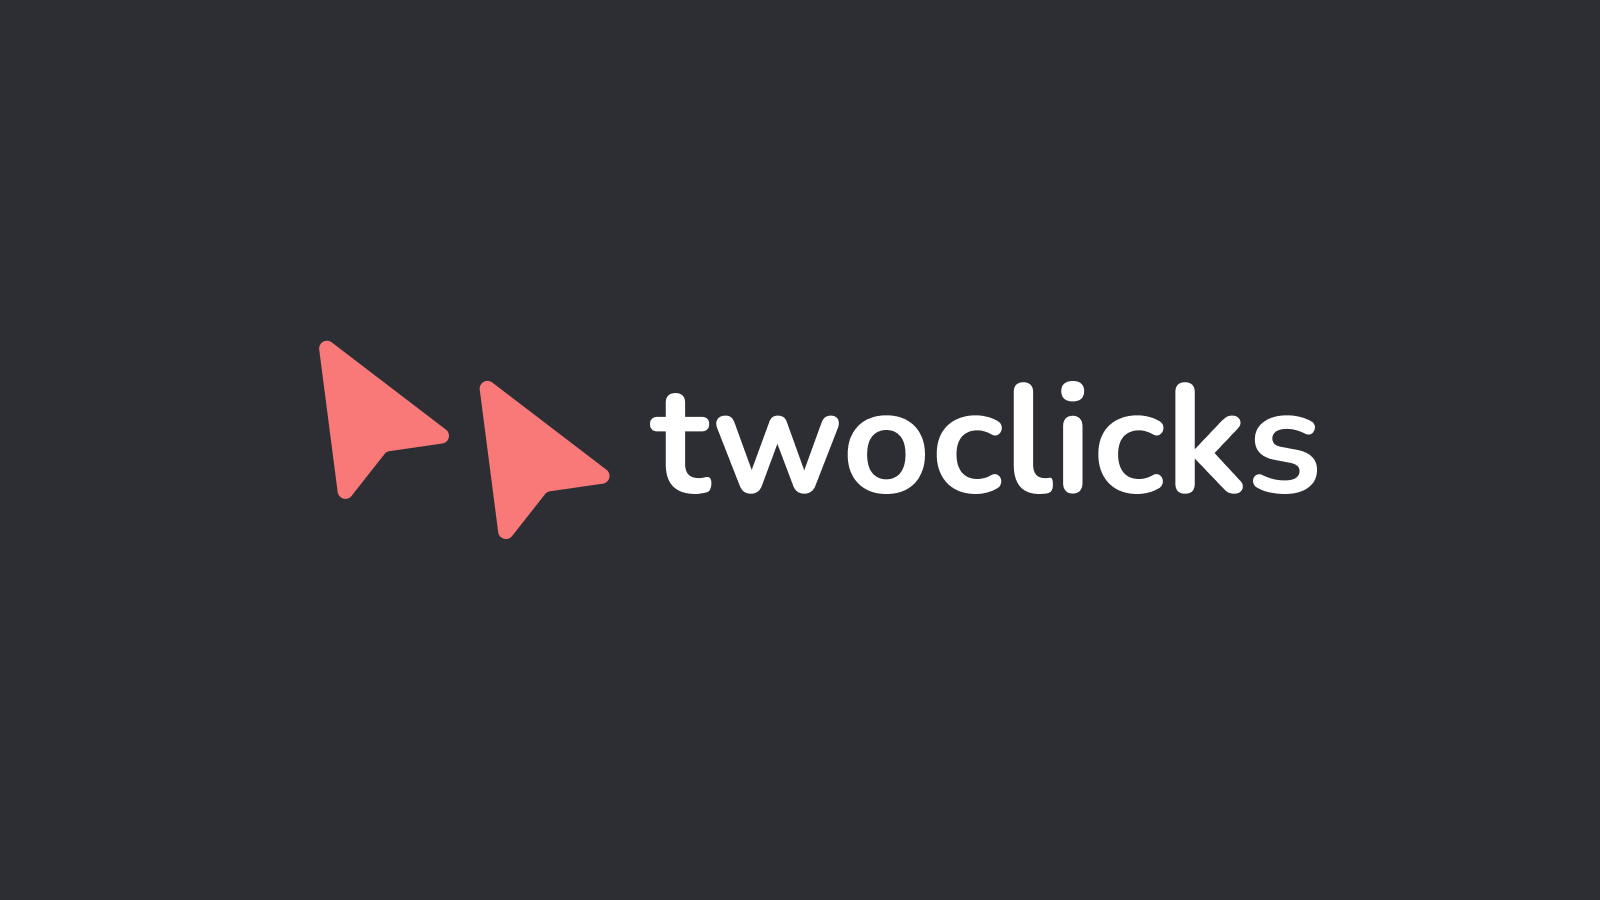
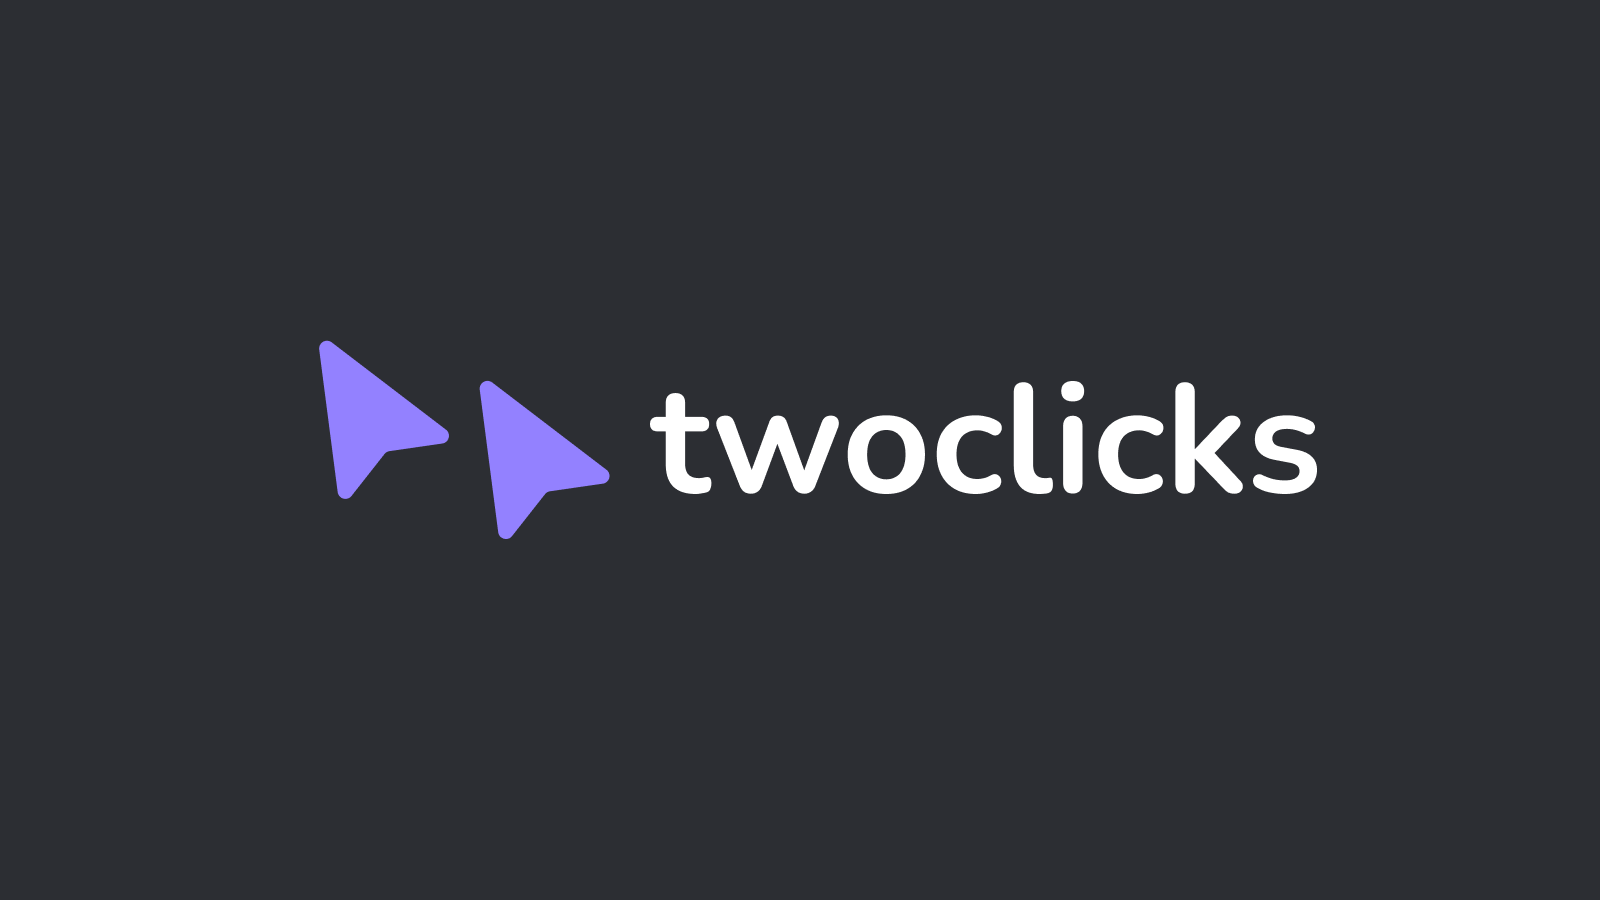
Make lilac primary color

Changed region(s): [[0.1875, 0.3733, 0.375, 0.5911]]

diff --git a/app/core/components/TextEditor.tsx b/app/core/components/TextEditor.tsx
@@ -130,7 +130,7 @@ const TextEditor: React.FC<{
               size="md"
               radius={0}
               variant={editor.isActive("bold") ? "light" : "filled"}
-              color={editor.isActive("bold") ? "flame" : dark ? "dark" : "dark.4"}
+              color={editor.isActive("bold") ? "primary" : dark ? "dark" : "dark.4"}
               onClick={() => {
                 editor.chain().focus().toggleBold().run()
               }}
@@ -150,7 +150,7 @@ const TextEditor: React.FC<{
               size="md"
               radius={0}
               variant={editor.isActive({ textAlign: "left" }) ? "light" : "filled"}
-              color={editor.isActive({ textAlign: "left" }) ? "flame" : dark ? "dark" : "dark.4"}
+              color={editor.isActive({ textAlign: "left" }) ? "primary" : dark ? "dark" : "dark.4"}
               onClick={() => {
                 editor.chain().focus().setTextAlign("left").run()
               }}
@@ -170,7 +170,9 @@ const TextEditor: React.FC<{
               size="md"
               radius={0}
               variant={editor.isActive({ textAlign: "center" }) ? "light" : "filled"}
-              color={editor.isActive({ textAlign: "center" }) ? "flame" : dark ? "dark" : "dark.4"}
+              color={
+                editor.isActive({ textAlign: "center" }) ? "primary" : dark ? "dark" : "dark.4"
+              }
               onClick={() => {
                 editor.chain().focus().setTextAlign("center").run()
               }}
@@ -190,7 +192,7 @@ const TextEditor: React.FC<{
               size="md"
               radius={0}
               variant={editor.isActive({ textAlign: "right" }) ? "light" : "filled"}
-              color={editor.isActive({ textAlign: "right" }) ? "flame" : dark ? "dark" : "dark.4"}
+              color={editor.isActive({ textAlign: "right" }) ? "primary" : dark ? "dark" : "dark.4"}
               onClick={() => {
                 editor.chain().focus().setTextAlign("right").run()
               }}
@@ -210,7 +212,9 @@ const TextEditor: React.FC<{
               size="md"
               radius={0}
               variant={editor.isActive({ textAlign: "justify" }) ? "light" : "filled"}
-              color={editor.isActive({ textAlign: "justify" }) ? "flame" : dark ? "dark" : "dark.4"}
+              color={
+                editor.isActive({ textAlign: "justify" }) ? "primary" : dark ? "dark" : "dark.4"
+              }
               onClick={() => {
                 editor.chain().focus().setTextAlign("justify").run()
               }}
@@ -231,7 +235,7 @@ const TextEditor: React.FC<{
                 size="md"
                 radius={0}
                 variant={editor.isActive("link") ? "light" : "filled"}
-                color={editor.isActive("link") ? "flame" : dark ? "dark" : "dark.4"}
+                color={editor.isActive("link") ? "primary" : dark ? "dark" : "dark.4"}
                 onClick={() => {
                   editor.chain().focus().run()
                   setEditLinkActive(true)
@@ -250,7 +254,7 @@ const TextEditor: React.FC<{
               rightSection={
                 <ActionIcon
                   size="sm"
-                  color="flame"
+                  color="primary"
                   disabled={!linkValue.length}
                   onClick={() => {
                     let url = linkValue

diff --git a/app/core/components/Logo.tsx b/app/core/components/Logo.tsx
@@ -19,13 +19,13 @@ function Logo({ ...props }: React.SVGProps<SVGSVGElement>) {
           fillRule="evenodd"
           clipRule="evenodd"
           d="M40.0524 2.80383C42.7848 1.22628 46.1977 1.44639 48.7049 3.36185L162.881 90.5931C165.381 92.5034 166.492 95.727 165.699 98.7722C164.907 101.817 162.365 104.09 159.25 104.539L106.527 112.135C104.54 112.422 102.74 113.461 101.499 115.038L68.5586 156.9C66.6127 159.373 63.3736 160.437 60.34 159.601C57.3065 158.765 55.0702 156.191 54.666 153.071L36.2094 10.5761C35.8041 7.44714 37.32 4.38138 40.0524 2.80383Z"
-          fill="#F97979"
+          fill={theme.colors.primary[5]}
         />
         <path
           fillRule="evenodd"
           clipRule="evenodd"
           d="M200.586 42.9366C203.318 41.3591 206.731 41.5792 209.238 43.4947L323.414 130.726C325.914 132.636 327.025 135.86 326.232 138.905C325.44 141.95 322.898 144.223 319.784 144.672L267.06 152.268C265.074 152.555 263.274 153.594 262.033 155.171L229.092 197.033C227.146 199.506 223.907 200.57 220.873 199.734C217.84 198.898 215.603 196.324 215.199 193.204L196.743 50.7089C196.337 47.58 197.853 44.5142 200.586 42.9366Z"
-          fill="#F97979"
+          fill={theme.colors.primary[5]}
         />
         <path
           d="M412.739 155C406.043 155 400.429 153.866 395.896 151.599C391.467 149.332 388.17 146.034 386.007 141.706C383.843 137.274 382.762 131.813 382.762 125.32V92.394H374.726C372.254 92.394 370.348 91.7756 369.009 90.539C367.67 89.1993 367 87.3958 367 85.1286C367 82.7583 367.67 80.9549 369.009 79.7182C370.348 78.4815 372.254 77.8632 374.726 77.8632H382.762V63.7962C382.762 60.6015 383.586 58.1797 385.234 56.5308C386.985 54.8819 389.406 54.0575 392.497 54.0575C395.587 54.0575 397.957 54.8819 399.605 56.5308C401.253 58.1797 402.077 60.6015 402.077 63.7962V77.8632H418.457C420.929 77.8632 422.835 78.4815 424.174 79.7182C425.514 80.9549 426.183 82.7583 426.183 85.1286C426.183 87.3958 425.514 89.1993 424.174 90.539C422.835 91.7756 420.929 92.394 418.457 92.394H402.077V124.238C402.077 129.185 403.159 132.895 405.322 135.368C407.486 137.841 410.988 139.078 415.83 139.078C417.581 139.078 419.127 138.923 420.466 138.614C421.805 138.305 422.99 138.099 424.02 137.996C425.256 137.893 426.286 138.305 427.11 139.233C427.934 140.057 428.347 141.809 428.347 144.488C428.347 146.549 427.986 148.404 427.265 150.053C426.647 151.599 425.462 152.681 423.711 153.3C422.372 153.712 420.62 154.072 418.457 154.382C416.294 154.794 414.388 155 412.739 155Z"

diff --git a/pages/_app.tsx b/pages/_app.tsx
@@ -46,20 +46,32 @@ const CustomTheme: MantineThemeOverride = {
     fontFamily: "'Nunito', sans-serif",
   },
   colors: {
-    flame: [
-      "#fee4e4",
-      "#fdc9c9",
-      "#fbafaf",
-      "#fba1a1",
-      "#fa8686",
-      "#F97979",
-      "#e06d6d",
-      "#c76161",
-      "#ae5555",
-      "#954949",
+    primary: [
+      "#e9e6ff",
+      "#dfd9ff",
+      "#c9c0ff",
+      "#beb3ff",
+      "#a99aff",
+      "#9381ff",
+      "#8474e6",
+      "#7667cc",
+      "#675ab3",
+      "#584d99",
     ],
+    // primary: [
+    //   "#fef2f2",
+    //   "#fdd7d7",
+    //   "#fcbcbc",
+    //   "#fba1a1",
+    //   "#fa8686",
+    //   "#F97979",
+    //   "#e06d6d",
+    //   "#c76161",
+    //   "#ae5555",
+    //   "#954949",
+    // ],
   },
-  primaryColor: "flame",
+  primaryColor: "primary",
   primaryShade: 5,
   globalStyles: (theme) => ({
     "*, *::before, *::after": {
@@ -69,7 +81,7 @@ const CustomTheme: MantineThemeOverride = {
       scrollBehavior: "smooth",
     },
     "::selection": {
-      background: theme.colors.flame[4],
+      background: theme.colors.primary[4],
       color: theme.white,
       WebkitTextFillColor: theme.white,
     },
@@ -96,6 +108,29 @@ const CustomTheme: MantineThemeOverride = {
     },
   }),
   components: {
+    ActionIcon: {
+      defaultProps: {
+        color: "violet",
+        radius: "sm",
+      },
+    },
+    Button: {
+      defaultProps: {
+        radius: "sm",
+      },
+    },
+    ColorSwatch: {
+      defaultProps: {
+        radius: "xl",
+      },
+    },
+    ColorPicker: {
+      styles: (theme) => ({
+        swatch: {
+          borderRadius: theme.radius.xl,
+        },
+      }),
+    },
     Paper: {
       styles: (theme) => ({
         root: {

diff --git a/app/build/PaletteItem.tsx b/app/build/PaletteItem.tsx
@@ -96,15 +96,14 @@ const PaletteItem = (props: IPaletteItem) => {
             sx={(theme) => ({
               display: "flex",
               alignItems: "center",
-              borderRadius: theme.radius.sm,
               cursor: "pointer",
               alignSelf: "stretch",
               "&:hover": withHover
                 ? {
                     backgroundColor:
                       theme.colorScheme === "dark"
-                        ? theme.fn.rgba(theme.colors.flame[9], 0.2)
-                        : theme.colors.flame[0],
+                        ? theme.fn.rgba(theme.colors.primary[9], 0.2)
+                        : theme.colors.primary[0],
                   }
                 : undefined,
               "&:active": {
@@ -113,9 +112,9 @@ const PaletteItem = (props: IPaletteItem) => {
             })}
           >
             {hasBG ? (
-              <BsFillImageFill size={16} color={theme.colors.flame[5]} />
+              <BsFillImageFill size={16} color={theme.colors.primary[5]} />
             ) : (
-              <ColorSwatch radius="xs" size={16} color={hexColor} />
+              <ColorSwatch size={16} color={hexColor} />
             )}
           </Box>
         </div>
@@ -131,7 +130,7 @@ const PaletteItem = (props: IPaletteItem) => {
               variant="subtle"
               rightIcon={
                 currentPaletteColor ? (
-                  <ColorSwatch color={currentPaletteColor} radius="xs" size={16} />
+                  <ColorSwatch color={currentPaletteColor} size={16} />
                 ) : undefined
               }
             >

diff --git a/app/home/HowToUseIt.tsx b/app/home/HowToUseIt.tsx
@@ -52,7 +52,7 @@ const HowToUseIt = (props: ContainerProps) => {
         <m.path
           style={{ pathLength: scrollYProgress }}
           d="M507.997 29.0001C517.997 24.5 530.497 11 528.997 7.00011C527.241 2.31856 515.497 7.50011 509.997 30.5001C512.83 20.6667 516.797 1 509.997 1C501.497 1 505.497 20 512.997 31C439.497 30.3333 260.798 48.8 133.998 128C-24.5022 227 5.99778 435 124.498 495.5C242.998 556 521.998 585.5 534.498 638C546.998 690.5 374.283 704.934 233.498 721C67 740 -87.5031 784.5 59.9977 859.5C128.496 892.5 243.123 922.5 260.623 948C269.497 942.5 274.243 942.254 282.496 934C289.496 927 280.496 910.5 258.996 951C264.33 940.5 273.396 918.7 264.996 919.5C254.496 920.5 260.623 943 260.623 951"
-          stroke={theme.colors.flame[5] as "string"}
+          stroke={theme.colors.primary[5] as "string"}
         />
       </Box>
       <LandingTitle
@@ -341,7 +341,7 @@ const HowToUseIt = (props: ContainerProps) => {
               component="span"
               // variant="gradient"
               size="lg"
-              // gradient={{ from: "flame", to: "red", deg: 60 }}
+              // gradient={{ from: "primary", to: "red", deg: 60 }}
               variant="filled"
               leftIcon={<IoMdSave />}
               tabIndex={-1}

diff --git a/app/core/components/modals/base/MenuModal.tsx b/app/core/components/modals/base/MenuModal.tsx
@@ -127,7 +127,7 @@ const MenuModal = () => {
           styles={{
             control: {
               textAlign: "center",
-              backgroundColor: dark ? theme.colors.dark[5] : theme.colors.flame[0],
+              backgroundColor: dark ? theme.colors.dark[5] : theme.colors.primary[0],
               paddingTop: 0,
               paddingBottom: 0,
               minHeight: "34px",
@@ -137,7 +137,7 @@ const MenuModal = () => {
               position: "absolute",
               left: "50%",
               transform: "translateX(-50%)",
-              color: dark ? theme.white : theme.colors.flame[5],
+              color: dark ? theme.white : theme.colors.primary[5],
               fontSize: "14px",
             },
           }}
@@ -155,7 +155,7 @@ const MenuModal = () => {
           <Link passHref href={menuItem.route} key={menuItem.text}>
             <Button
               title={t(menuItem.title)}
-              color={dark ? "dark" : "flame"}
+              color={dark ? "dark" : "primary"}
               fullWidth
               variant={dark ? "filled" : "light"}
             >

diff --git a/app/build/BuilderHeader.tsx b/app/build/BuilderHeader.tsx
@@ -136,20 +136,14 @@ const BuilderHeader = ({ className }: { className?: string }) => {
           </Box>
           <Group spacing={8}>
             <HistoryButtons size={30} variant="light" />
-            <ViewportButtons variant="light" color="flame" size={30} />
+            <ViewportButtons variant="light" size={30} />
             <Tooltip
               label={fullscreen ? t("turn off fullscreen mode") : t("turn on fullscreen mode")}
               withArrow
               position="bottom"
               opened={fullscreenHovered}
             >
-              <ActionIcon
-                onClick={toggle}
-                variant="light"
-                color="flame"
-                size={30}
-                ref={fullscreenRef}
-              >
+              <ActionIcon onClick={toggle} variant="light" size={30} ref={fullscreenRef}>
                 {fullscreen ? <AiOutlineFullscreenExit /> : <AiOutlineFullscreen />}
               </ActionIcon>
             </Tooltip>

diff --git a/app/core/components/modals/base/TemplateModal.tsx b/app/core/components/modals/base/TemplateModal.tsx
@@ -48,7 +48,7 @@ const TemplateModalForm = ({ page }: { page: Page }) => {
               <Group align="center" spacing={8}>
                 <Text>
                   Page{" "}
-                  <Text color="flame" component="span">
+                  <Text color="primary" component="span">
                     {values.newPageName}
                   </Text>{" "}
                   is successfuly created from a template!
@@ -88,7 +88,7 @@ const _TemplateModal = forwardRef<HTMLButtonElement, TemplateModalProps>(
             title: (
               <Text>
                 Selecting{" "}
-                <Text component="span" color="flame">
+                <Text component="span" color="primary">
                   {page.name}
                 </Text>{" "}
                 as a template

diff --git a/pages/templates.tsx b/pages/templates.tsx
@@ -86,7 +86,7 @@ const Templates = () => {
             }}
           >
             <ThemeIcon variant="light" size={48}>
-              <BsCaretLeftFill size={32} color={theme.colors.flame[5]} />
+              <BsCaretLeftFill size={32} color={theme.colors.primary[5]} />
             </ThemeIcon>{" "}
           </UnstyledButton>
           <UnstyledButton
@@ -113,7 +113,7 @@ const Templates = () => {
             }}
           >
             <ThemeIcon variant="light" size={48}>
-              <BsCaretRightFill size={32} color={theme.colors.flame[5]} />
+              <BsCaretRightFill size={32} color={theme.colors.primary[5]} />
             </ThemeIcon>
           </UnstyledButton>
           <Page

diff --git a/app/build/HistoryButtons.tsx b/app/build/HistoryButtons.tsx
@@ -59,7 +59,7 @@ const HistoryButtons = (props: ActionIconProps) => {
         <div>
           <ActionIcon
             {...props}
-            color="flame"
+            color="primary"
             variant="light"
             onClick={undo}
             disabled={!isUndoActive}
@@ -92,7 +92,7 @@ const HistoryButtons = (props: ActionIconProps) => {
         onClick={redo}
       >
         <div>
-          <ActionIcon {...props} color="flame" variant="light" disabled={!isRedoActive}>
+          <ActionIcon {...props} color="primary" variant="light" disabled={!isRedoActive}>
             <BiRedo size="66%" />
           </ActionIcon>
         </div>

diff --git a/app/profile/ProfileLinks.tsx b/app/profile/ProfileLinks.tsx
@@ -64,7 +64,7 @@ function ProfileLink({ icon, color, label, link }: IProfileLink) {
 export function ProfileLinks() {
   const [data] = useState(() => [
     { icon: <FaBriefcase />, color: "orange", label: "pages", link: "/profile" },
-    // { icon: <BiStats />, color: "flame", label: t("statistics"), link: "/profile/statistics" },
+    // { icon: <BiStats />, color: "primary", label: t("statistics"), link: "/profile/statistics" },
     // { icon: <RiVipCrown2Fill />, color: "yellow", label: t("premium"), link: "/profile/premium" },
     {
       icon: <BsQuestionCircleFill />,

diff --git a/app/home/CallToAction.tsx b/app/home/CallToAction.tsx
@@ -118,6 +118,8 @@ const CallToAction = (props: ContainerProps) => {
           <Button
             component="a"
             rightIcon={<BsArrowRight size="20px" />}
+            variant="gradient"
+            gradient={{ from: "blue", to: "primary", deg: 60 }}
             sx={{
               width: "260px",
               height: "64px",
@@ -130,7 +132,6 @@ const CallToAction = (props: ContainerProps) => {
                 height: "36px",
               },
             }}
-            radius="md"
           >
             <Text
               sx={{
